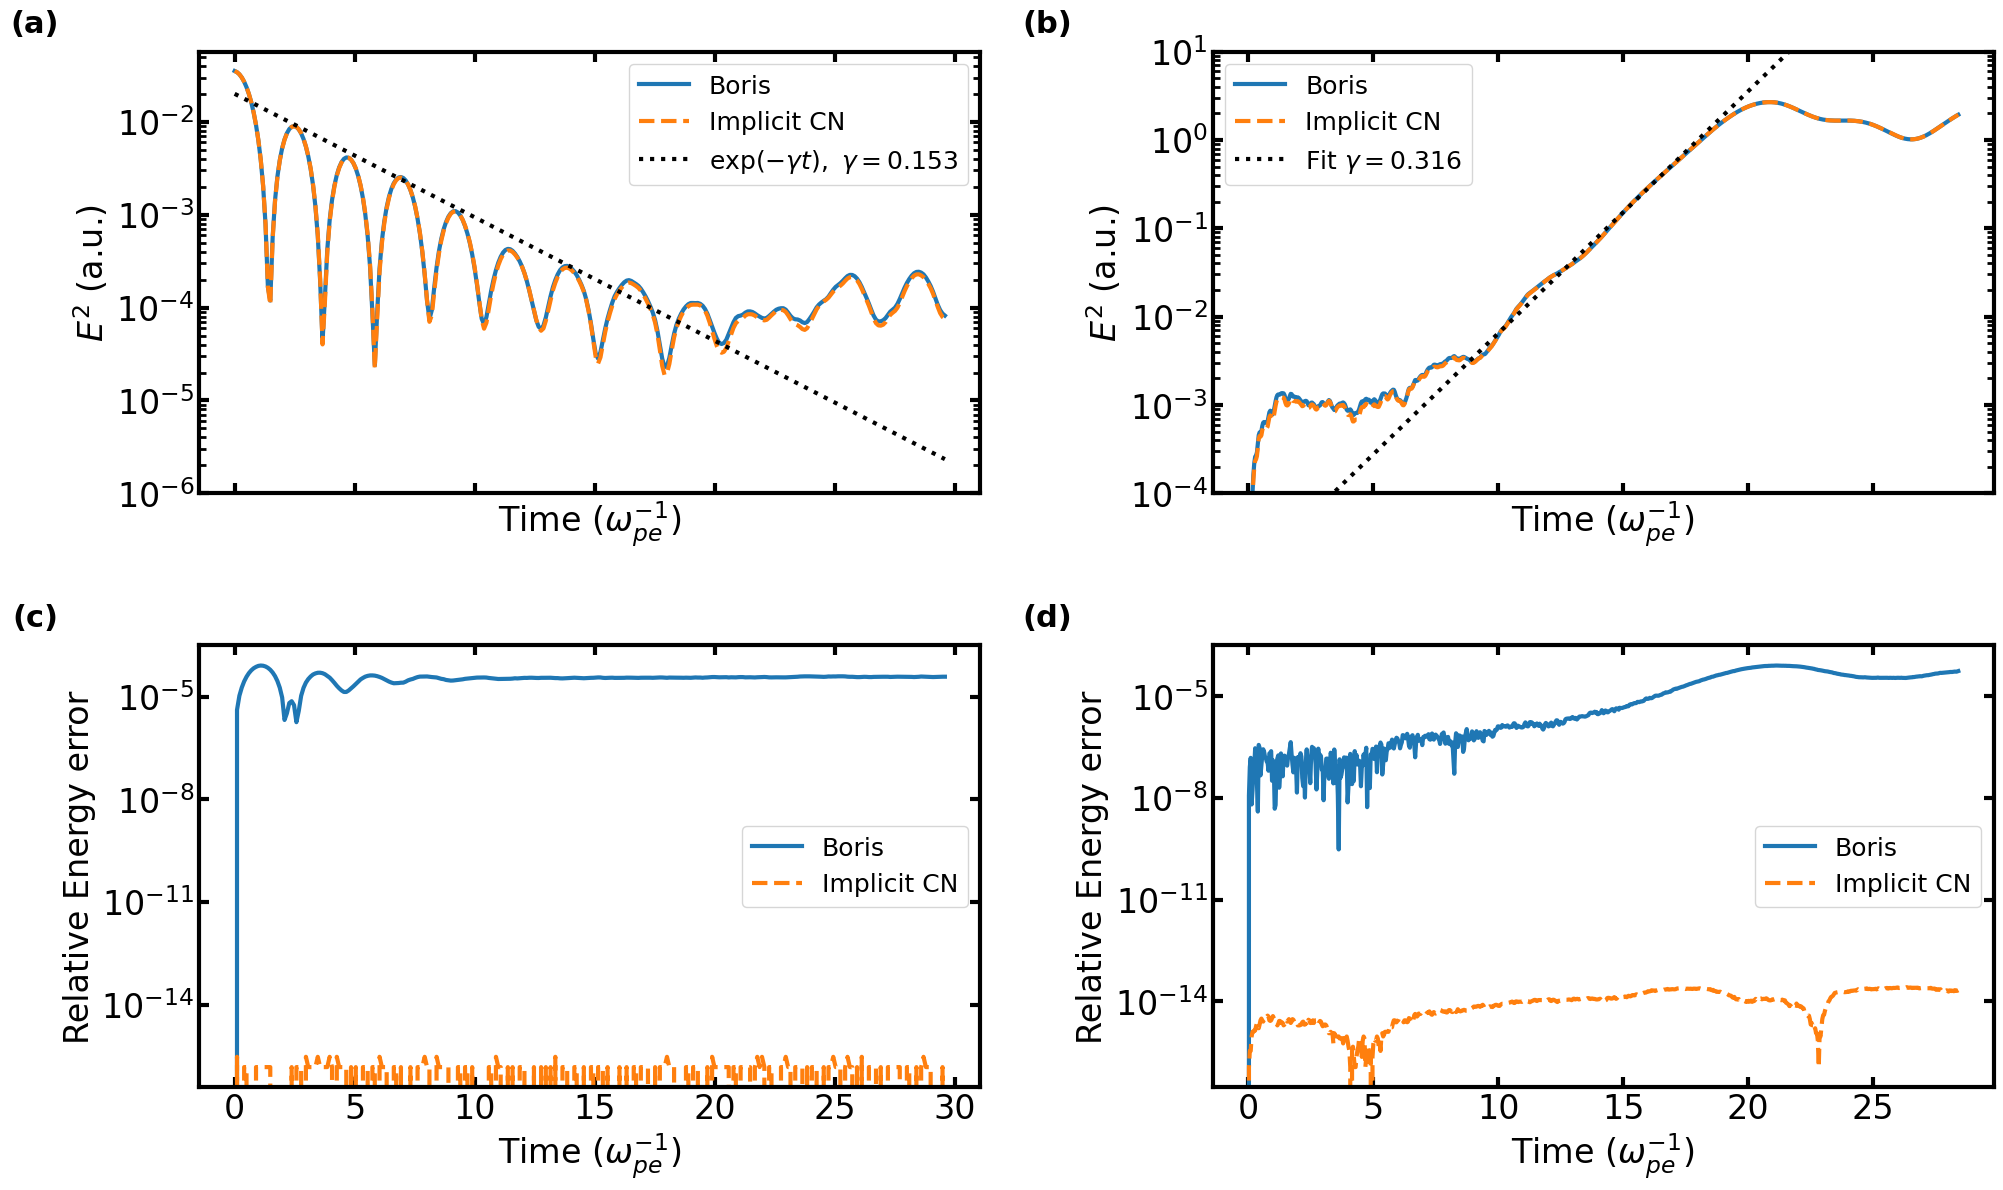
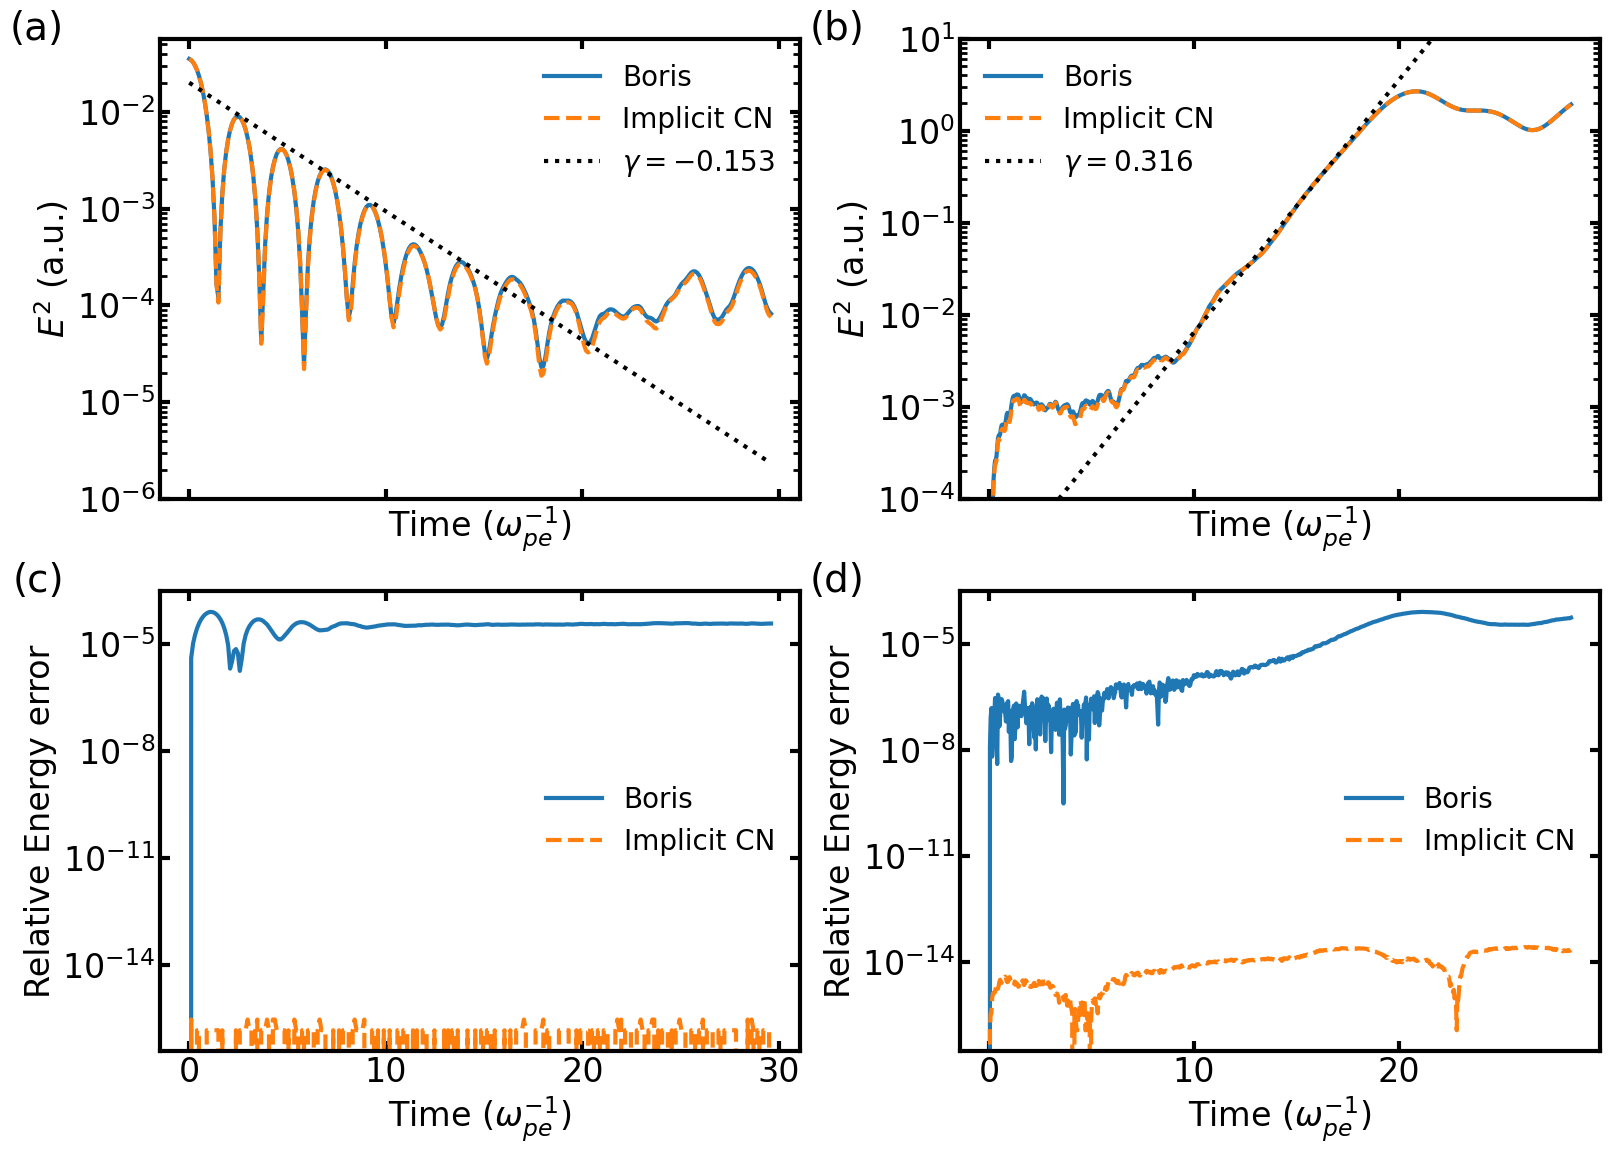
Update to preprint version

diff --git a/paper.md b/paper.md
@@ -40,21 +40,21 @@ JAX-in-Cell is able to fill this gap by implementing a 1D3V PIC framework entire
 # Structure
 
 Kinetic simulations can be performed using either a particle (or Lagrangian) approach, based on PIC simulations, or a continuum (or Eulerian) approach. While the former follows individual particles, these are down-sampled by following pseudo-particles, labeled $p$, leading to numerical noise that scales inversely with the square root of the mean number of particles[@birdsall1991plasma]. Nevertheless, PIC codes use an Eulerian grid for the fields and moments of the particle distribution function of species $s$, $f_s$, using therefore a mixed Eulerian/Lagrangian discretization. Particles are advanced along characteristics of the Vlasov equation
-%
+
 \begin{equation}
 \partial_t f_s + \mathbf{v}\cdot\nabla f_s
 + \frac{q_s}{m_s} \left( \mathbf{E} + \mathbf{v} \times \mathbf{B} \right)
 \cdot \nabla_{\mathbf{u}} f_s = 0,
 \end{equation}
-%
+
 with the electromagnetic fields governed by the standard Maxwell equations equations. Here, $\mathbf{v}$ is velocity, $q_s$ and $m_s$ are the
 particle charge and mass, $\mathbf{E}$ and $\mathbf{B}$ are the electric and magnetic fields, $\mathbf{u} = \mathbf{v}\gamma$ is the
 proper velocity, and $\gamma = \sqrt{1 + u^2/c^2}$ is the Lorentz factor, with $c$ the speed of light. The distribution function $f_s$ is discretized as
-%
+
 \begin{equation}
 f_s(\mathbf{x}, \mathbf{v}) \approx \sum_{p} w_p\, \delta(\mathbf{x} - \mathbf{x_p})\, \delta(\mathbf{v} - \mathbf{v_p}),
 \end{equation}
-%
+
 where $x_p$ denotes the position of each pseudo-particle, $\mathbf{v_p}$ denotes the velocity of each pseudo-particle, the weight is given by $w_p = n_0L/N$, with $n_0$ number density, $L$ the spatial domain length and $N$ the number of pseudo-particles for that species. Then, the spatial domain is divided into $N_x$ uniform cells with spacing $\Delta x$ and advanced in time by $\Delta t$.  To mitigate numerical noise, each pseudo-particle is represented by a triangular shape function spanning three grid cells, and the same kernel is used consistently for both the
 particle-to-grid charge deposition and the grid-to-particle field interpolation[@hockney1988computer]. Accordingly, the current density $\mathbf j$ is computed from the continuity equation using a discretely charge-conserving scheme[@villasenor1992rigorous] consistent with the shape function. Continuum Eulerian methods discretize the distribution function in six dimensions of phase space, making them computationally more costly, but, on the other hand, they are not subject to noise and can be cast in conservation law form so as to preserve the velocity moments of the distribution function.
 
@@ -79,24 +79,24 @@ To facilitate analysis, the code automatically computes key quantities such as s
 
 The electromagnetic fields are defined on a staggered Yee lattice. The code then solves the Ampere and Faraday equations
 
-%
+
 \begin{equation}
     \frac{\partial \mathbf E}{\partial t}=c^2 \nabla \times \mathbf B - \frac{\mathbf j}{\epsilon_0},~ \frac{\partial \mathbf B}{\partial t} = - \nabla \times \mathbf E,
 \end{equation}
-%
+
 which, in the 1D geometry ($\partial/\partial y = \partial/\partial z = 0$), reduces the curl operator to spatial derivatives along the $x$ lattice. The discrete spatial derivative operator uses central differences for internal points, with ghost cells handling the boundary conditions (periodic, reflective, or absorbing). JAX-in-Cell allows flexible boundary conditions by handling particle trajectories and electromagnetic fields independently at the domain edges.
 Charge conservation is ensured using a divergence cleaning step, where the longitudinal component $E_x$ is projected to satisfy Gauss' law, $\nabla \cdot \mathbf E = \rho/\epsilon_0$.
 The charge density $\rho$ and current density $\mathbf j$ are deposited onto the grid using a quadratic (3-point) spline shape function $S(x)$, where a multi-pass binomial digital filter is applied to the source terms to mitigate grid-heating instability. This effectively suppresses high wavenumbers near the Nyquist limit while preserving the macroscopic (low wave-number) plasma dynamics.
 
 While the user can initialize their own distribution functions, JAX-in-Cell allows users to use a predefined perturbed Maxwellian
-%
+
 \begin{equation}
 f_s(x, \mathbf{v}, t = 0) = f_{s0}(\mathbf{v})\left[ 1 + a \cos\left(\frac{2 \pi k x}{L}\right)\right],
 \end{equation}
-%
-where \(a\) is the perturbation amplitude and \(k\) the perturbation
+
+where $a$ is the perturbation amplitude and $k$ the perturbation
 wavenumber. The Maxwellian background $f_{s0}$ is given by the following anisotropic, drifting distribution
-%
+
 \begin{equation}
 \begin{aligned}
 f_{s0}(\mathbf{v}) &= \frac{n_0}{2 \, \pi^{3/2} v^3} 
@@ -107,50 +107,46 @@ e^{- \frac{(v_x - v_{bx})^2}{v_{th,x}^2} - \frac{(v_y - v_{by})^2}{v_{th,y}^2} -
 \right],
 \end{aligned}
 \end{equation}
-%
+
 with $v^3 = v_{th,x} v_{th,y} v_{th,z}$ the product of each thermal velocity along $(x,y,z)$ directions, $v_{bi}$ the drift velocities along each direction $i$, and $n_0$ the background density. The addition of an opposite sign drift velocity $\pm v_b$ is controlled using the`velocity\_plus\_minus` input parameter.
-%
+
 Such a perturbed Maxwellian allows us to perform many benchmark simulations, such as Landau damping, the two-stream instability, the bump-on-tail instability, and the Weibel instability.
 
-We first validate JAX-in-Cell by performing such simulations in a periodic boundary of length $L$, and compare with the corresponding linear theory. Linearizing the Vlasov--Maxwell system around this initial distribution (with equal thermal velocities \(v_{th,x}=v_{th,y}=v_{th,z}\)), yields the dispersion relation
-%
+We first validate JAX-in-Cell by performing such simulations in a periodic boundary of length $L$, and compare with the corresponding linear theory. Linearizing the Vlasov--Maxwell system around this initial distribution (with equal thermal velocities $v_{th,x}=v_{th,y}=v_{th,z}$), yields the dispersion relation
+
 \begin{equation}
 1 + \frac{1}{2k^2\lambda_D^2}
 \left[  2 + \xi_1 Z(\xi_1)+\xi_2 Z(\xi_2)\right] = 0, \quad
 \xi_i=\frac{\omega}{kv_{th}}-\frac{v_{b_i}}{v_{th}},
 \end{equation}
-%
-
-where $\lambda_D$ is Debye length and $Z$ is the Fried–Conte plasma dispersion function. The complex frequency $\omega$ determines both the oscillation frequency and the damping or growth rate $\gamma$. With this theoretical prediction established, the following parameter choices demonstrate two representative test cases using non-relativistic algorithms:
-
-For Landau damping:
-(i) Perturbation: $a = 0.025$, $k\lambda_D = 1/2$
-(ii) Velocities: $v_{b_1} = v_{b_2} = 0$, $v_{th} = 0.35\,c$
-(iii) Discretization: $N = 40{,}000$, $N_x = 32$, $\Delta x = 0.4\lambda_D$ and $\Delta t = 0.1\,\omega_{pe}^{-1}$
-
-For two-stream instability:
-(i) Perturbation: $a = 5\times10^{-7}$, $k\lambda_D = 1/8$
-(ii) Velocities: $v_{b_1} = -v_{b_2} = 0.2\,c$, $v_{th} = 0.05\,c$
-(iii) Discretization: $N = 10{,}000$, $N_x = 100$, $\Delta x = 0.5 \lambda_D$ and $\Delta t = 0.1\,\omega_{pe}^{-1}$
-
-![Electric field energy evolution for Landau damping and two-stream instability. (a) Landau damping with analytical damping rate. (b) Two-stream instability showing fitted exponential growth rate. (c–d) Relative total energy deviation $|E_{\text{total}} - E_{\text{total}}(0)| / E_{\text{total}}(0)$ demonstrating energy conservation.\label{fig:output}](figs/output.png)
-
-The results in \autoref{fig:output} show good agreement with analytical predictions; nevertheless, the Landau damping simulation exhibits high sensitivity to the initial conditions, in particular the choice of perturbation amplitude.
-
-Next, we investigated the Weibel instability, which arises in anisotropic plasmas and leads to spontaneous magnetic field generation. The plasma is initialized with anisotropic velocity distribution, and we track magnetic field evolution. During the instability, the magnetic field organizes into filamentary structures perpendicular to the velocity anisotropy. Initially, multiple small filaments form, which subsequently merge into larger-scale structures as the system evolves (\autoref{fig:Weibel}).
-
-![Evolution of the magnetic field during the Weibel instability. (a) Time evolution of total magnetic field energy. (b) Spatial profile of the magnetic field.\label{fig:Weibel}](figs/Weibel.png)
-
-Additionally, to demonstrate the multi-species capability of our code, we study the bump-on-tail instability. This instability arises when a high-velocity electron beam creates a positive slope in the electron velocity distribution. We initialize the plasma with a bulk Maxwellian electron population and a tenuous, high-velocity beam that produces a pronounced bump in the tail of the distribution, and we track the evolution of the phase-space density and the associated electric field. During the linear growth phase, resonant electrons exchange energy with Langmuir waves, leading to exponential amplification of the electric field. As the instability evolves, the initially smooth electron distribution develops coherent phase-space structures, illustrating the code’s ability to capture nonlinear wave–particle interactions (\autoref{fig:bump-on-tail}).
-
-![Simulation of the bump-on-tail instability. The numbers of pseudo-particles in the bulk and beam populations are equal, with a beam-to-bulk weight ratio of $3\times10^{-2}$. (a) Time evolution of the electric field energy. (b) Snapshot of phase space at $80\,\omega_{pe}^{-1}$. \label{fig:bump-on-tail}](figs/bump-on-tail.png)
 
 
-Finally, we evaluated the computational performance of our implementation by comparing CPU and GPU runtimes on an AMD EPYC 7763 CPU and an NVIDIA A100 GPU, analyzing how the total runtime scales with the number of pseudoparticles. As a representative benchmark, we simulated ten drift velocities drawn from the two-stream dispersion relation (\autoref{fig:Run_time}). The results confirm the strong advantage of GPU acceleration: for the same workload, the GPU executes the simulation roughly two orders of magnitude faster than the CPU. In particular, for a system of 64,000 pseudoparticles, the GPU completes the full drift-scan in about six seconds after the initial compilation. Our benchmarks also indicate that GPU results depend on floating-point precision: running in 32-bit mode by manually disabling JAX’s x64 option reduces memory usage and improves speed, but can introduce deviations when compared to 64-bit results. Some of these differences also depend on details of the fitting range used to extract growth rates. For high-accuracy studies, we therefore recommend using the default 64-bit mode, with 32-bit remaining a useful option for rapid exploratory runs.
+where $\lambda_D$ is Debye length and $Z$ is the Fried--Conte plasma dispersion function. The complex frequency $\omega$ determines both the oscillation frequency and the damping or growth rate $\gamma$.
+We use such a theoretical model to demonstrate two representative test cases using non-relativistic algorithms. 1) Landau damping using a perturbation: $a = 0.025$,
+$k\lambda_D = 1/2$, zero drift velocities $v_{b_x} = v_{b_y} = v_{b_z} = 0$,
+$v_{th} = 0.35\,c$, resolution of $N = 40000$ particles, $N_x = 32$ grid cells, $\Delta x = 0.4\lambda_D$ gird spacing and $\Delta t = 0.1\,\omega_{pe}^{-1}$ timestep; 2) two-stream instability using a perturbation $a = 5\times10^{-7}$,
+$k\lambda_D = 1/8$, velocities $v_{b_x} = 0.2\,c$ with \texttt{velocity\_plus\_minus} set to true, $v_{th} = 0.05\,c$, $N = 10000$, $N_x = 100$, $\Delta x = 0.5 \lambda_D$ and $\Delta t = 0.1\,\omega_{pe}^{-1}$
 
-![(a) Comparison of total runtime between CPU and GPU. (b) Influence of pseudoparticle number on the two-stream instability sampling results. Growth rates extracted from exponential fits.\label{fig:Run_time}](figs/Run_time.png)
+We show in \autoref{fig:output} (top) the evolution of the electric field energy, as well as the fitted damping/growth rates, showing good agreement with the analytical prediction. We also show in \autoref{fig:output} (bottom) the resulting relative energy error between the explicit and implicit methods to demonstrate the precision of the implicit method.
 
-These results demonstrate that a fully JAX-based PIC code can deliver both high physical fidelity and excellent computational efficiency, making it suitable for rapid exploratory studies as well as larger-scale plasma simulations.
+![Electric field energy evolution for Landau damping and the two-stream instability. (a) Landau damping with analytical damping rate \(\gamma = 0.153\omega_{pe}\). (b) Two-stream instability showing fitted exponential growth rate. (c--d) Relative total energy deviation \(|E_{\text{total}} - E_{\text{total}}(0)| / E_{\text{total}}(0)\) demonstrating energy conservation.\label{fig:output}](figs/output.png)
+
+Next, we perform a simulation of the Weibel instability, which arises in anisotropic plasmas and may be a mechanism for magnetic field generation and application. The plasma is initialized with an anisotropic velocity distribution with $v_{thz}/v_{thx}=\sqrt{T_z/T_x}=10$. We show in \autoref{fig:Weibel} the evolution of the magnetic field energy and the energy relative error (left) and the magnetic field strength in the $y$ direction (right). As expected, the magnetic field organizes into filamentary structures perpendicular to the velocity anisotropy. Initially, multiple small filaments form, which subsequently merge into larger-scale structures as the system evolves. In this case, the implicit method shows a bounded relative energy error of at most $10^-11$, while the explicit method appears to have unbounded energy errors.
+
+![Weibel instability. (a) Evolution of the magnetic field energy and the relative energy error of the simulation during the Weibel instability. (b) Spatial profile of the magnetic field $B_y$.\label{fig:Weibel}](figs/Weibel.png)
+
+We demonstrate the multi-species capability of JAX-in-Cell by performing a simulation of the bump-on-tail instability (\autoref{fig:bump-on-tail}). This instability arises when a high-velocity electron beam creates a positive slope in the electron velocity distribution. We initialize the plasma with a bulk Maxwellian electron population and a small, high-velocity beam that produces a pronounced bump in the tail of the distribution, and we track the evolution of the phase-space density and the associated electric field. During the linear growth phase, resonant electrons exchange energy with Langmuir waves, leading to exponential amplification of the electric field. As the instability evolves, the initially smooth electron distribution develops coherent phase-space structures, illustrating the code's ability to capture nonlinear wave--particle interactions.
+
+![Simulation of the bump-on-tail instability. The number of pseudo-particles in the bulk and beam populations is equal, with a beam-to-bulk weight ratio of $3\times10^{-2}$. (a) Time evolution of the electric field energy and relative energy error. (b) Snapshot of phase space at $80\,\omega_{pe}^{-1}$. \label{fig:bump-on-tail}](figs/bump-on-tail.png)
+
+
+Additionally, we evaluate the computational performance of the code by comparing CPU and GPU run times. For this test, we use the hardware present in the NERSC Perlmutter HPE Cray EX supercomputer, that is, an AMD EPYC 7763 CPU and an NVIDIA A100 GPU. We assess how the total runtime scales with the number of pseudo-particles. As a representative benchmark, we simulate ten drift velocities drawn from the two-stream dispersion relation. The results are shown in \autoref{fig:Run_time}. We find that, for the same workload, the GPU executes the simulation approximately two orders of magnitude faster than the CPU. In particular, for a system of 64000 pseudo-particles, the GPU completes the full drift-scan in about six seconds after the initial compilation. The benchmarks also indicate that GPU results depend on floating-point precision: running in 32-bit mode by manually disabling JAX's x64 option reduces memory usage and improves speed, but can introduce deviations when compared to 64-bit results. Some of these differences also depend on details of the fitting range used to extract growth rates. Finally, we note that JIT compilation of such runs typically takes a few seconds.
+
+![(a) Comparison of total runtime between CPU and GPU. (b) Influence of pseudo-particle number on the two-stream instability sampling results. Growth rates computed from exponential fits.\label{fig:Run_time}](figs/Run_time.png)
+
+Finally, we showcase in \autoref{fig:two_stream_inverse} one of the central motivations for JAX-in-Cell, that is, to make plasma physics simulations natively differentiable. This allows us to take gradients of high-level parameters used for diagnostics with respect to any number of physical or numerical parameters without resorting to finite differencing. Such a capability is increasingly important for tasks such as Bayesian inference of transport coefficients, real-time control, design of laser pulses, and training of hybrid physics-ML surrogates for fusion devices or astrophysical plasmas. However, we note that automatic differentiation in PIC codes might be challenging due to noise, integer indexing, and discontinuous shape functions. We show in \autoref{fig:two_stream_inverse} how some of these challenges can be overcome. We optimize the dimensionless growth rate $\hat \gamma = \gamma/\omega_{pe}$ of the two-stream instability by applying a damped Newton update to the drift velocity $v_d$ using JAX to evaluate both $\hat \gamma(v_d)$ and its derivative $d\hat \gamma/d v_d$ via a single forward-mode Jacobian-vector product, which allows for efficient memory handling. The drift speed (squares) converge from $2 \times 10^7$ m/s to $3.95 \times 10^7$ m/s in six iterations, while $\hat \gamma$ (circles) rapidly approaches the target growth rate, and the sensitivity $|d \hat \gamma/dv_d|$ (diamonds) decreases as the optimizer approaches the solution. Each iteration involves a full PIC run, but requires no hand-derived adjoint equations or finite differencing. Future work will involve generalizing such an optimization to inverse problems, parameter-estimation studies, as the possibility of forward-modelling electron beams responsible for Type III solar radio bursts, and the design of new experiments.
+
+![Demonstration of autodifferentiation capabilities in JAX-in-Cell for optimization using the two-stream instability. Left: time evolution of the electric field energy for the true drift speed $v_d$ (solid), a different initial guess (dashed), and the optimized value obtained using optimization (dash–dot). Right: optimization history of the drift speed $v_d$ (squares, left axis), the dimensionless growth rate $\hat{\gamma}=\gamma/\omega_p$ (circles, left axis), and the magnitude of the sensitivity $|d\hat{\gamma}/dv_d|$ calculated using auto-differentiation (diamonds, right axis). Starting from $v_d = 2\times10^7\,\mathrm{m/s}$, the algorithm converges in six iterations to $v_d \approx 3.95\times10^7\,\mathrm{m/s}$, close to the true value of $4.0\times10^7\,\mathrm{m/s}$.\label{fig:two_stream_inverse}](figs/two_stream_two_panel.png)
 
 # Acknowledgement
 
